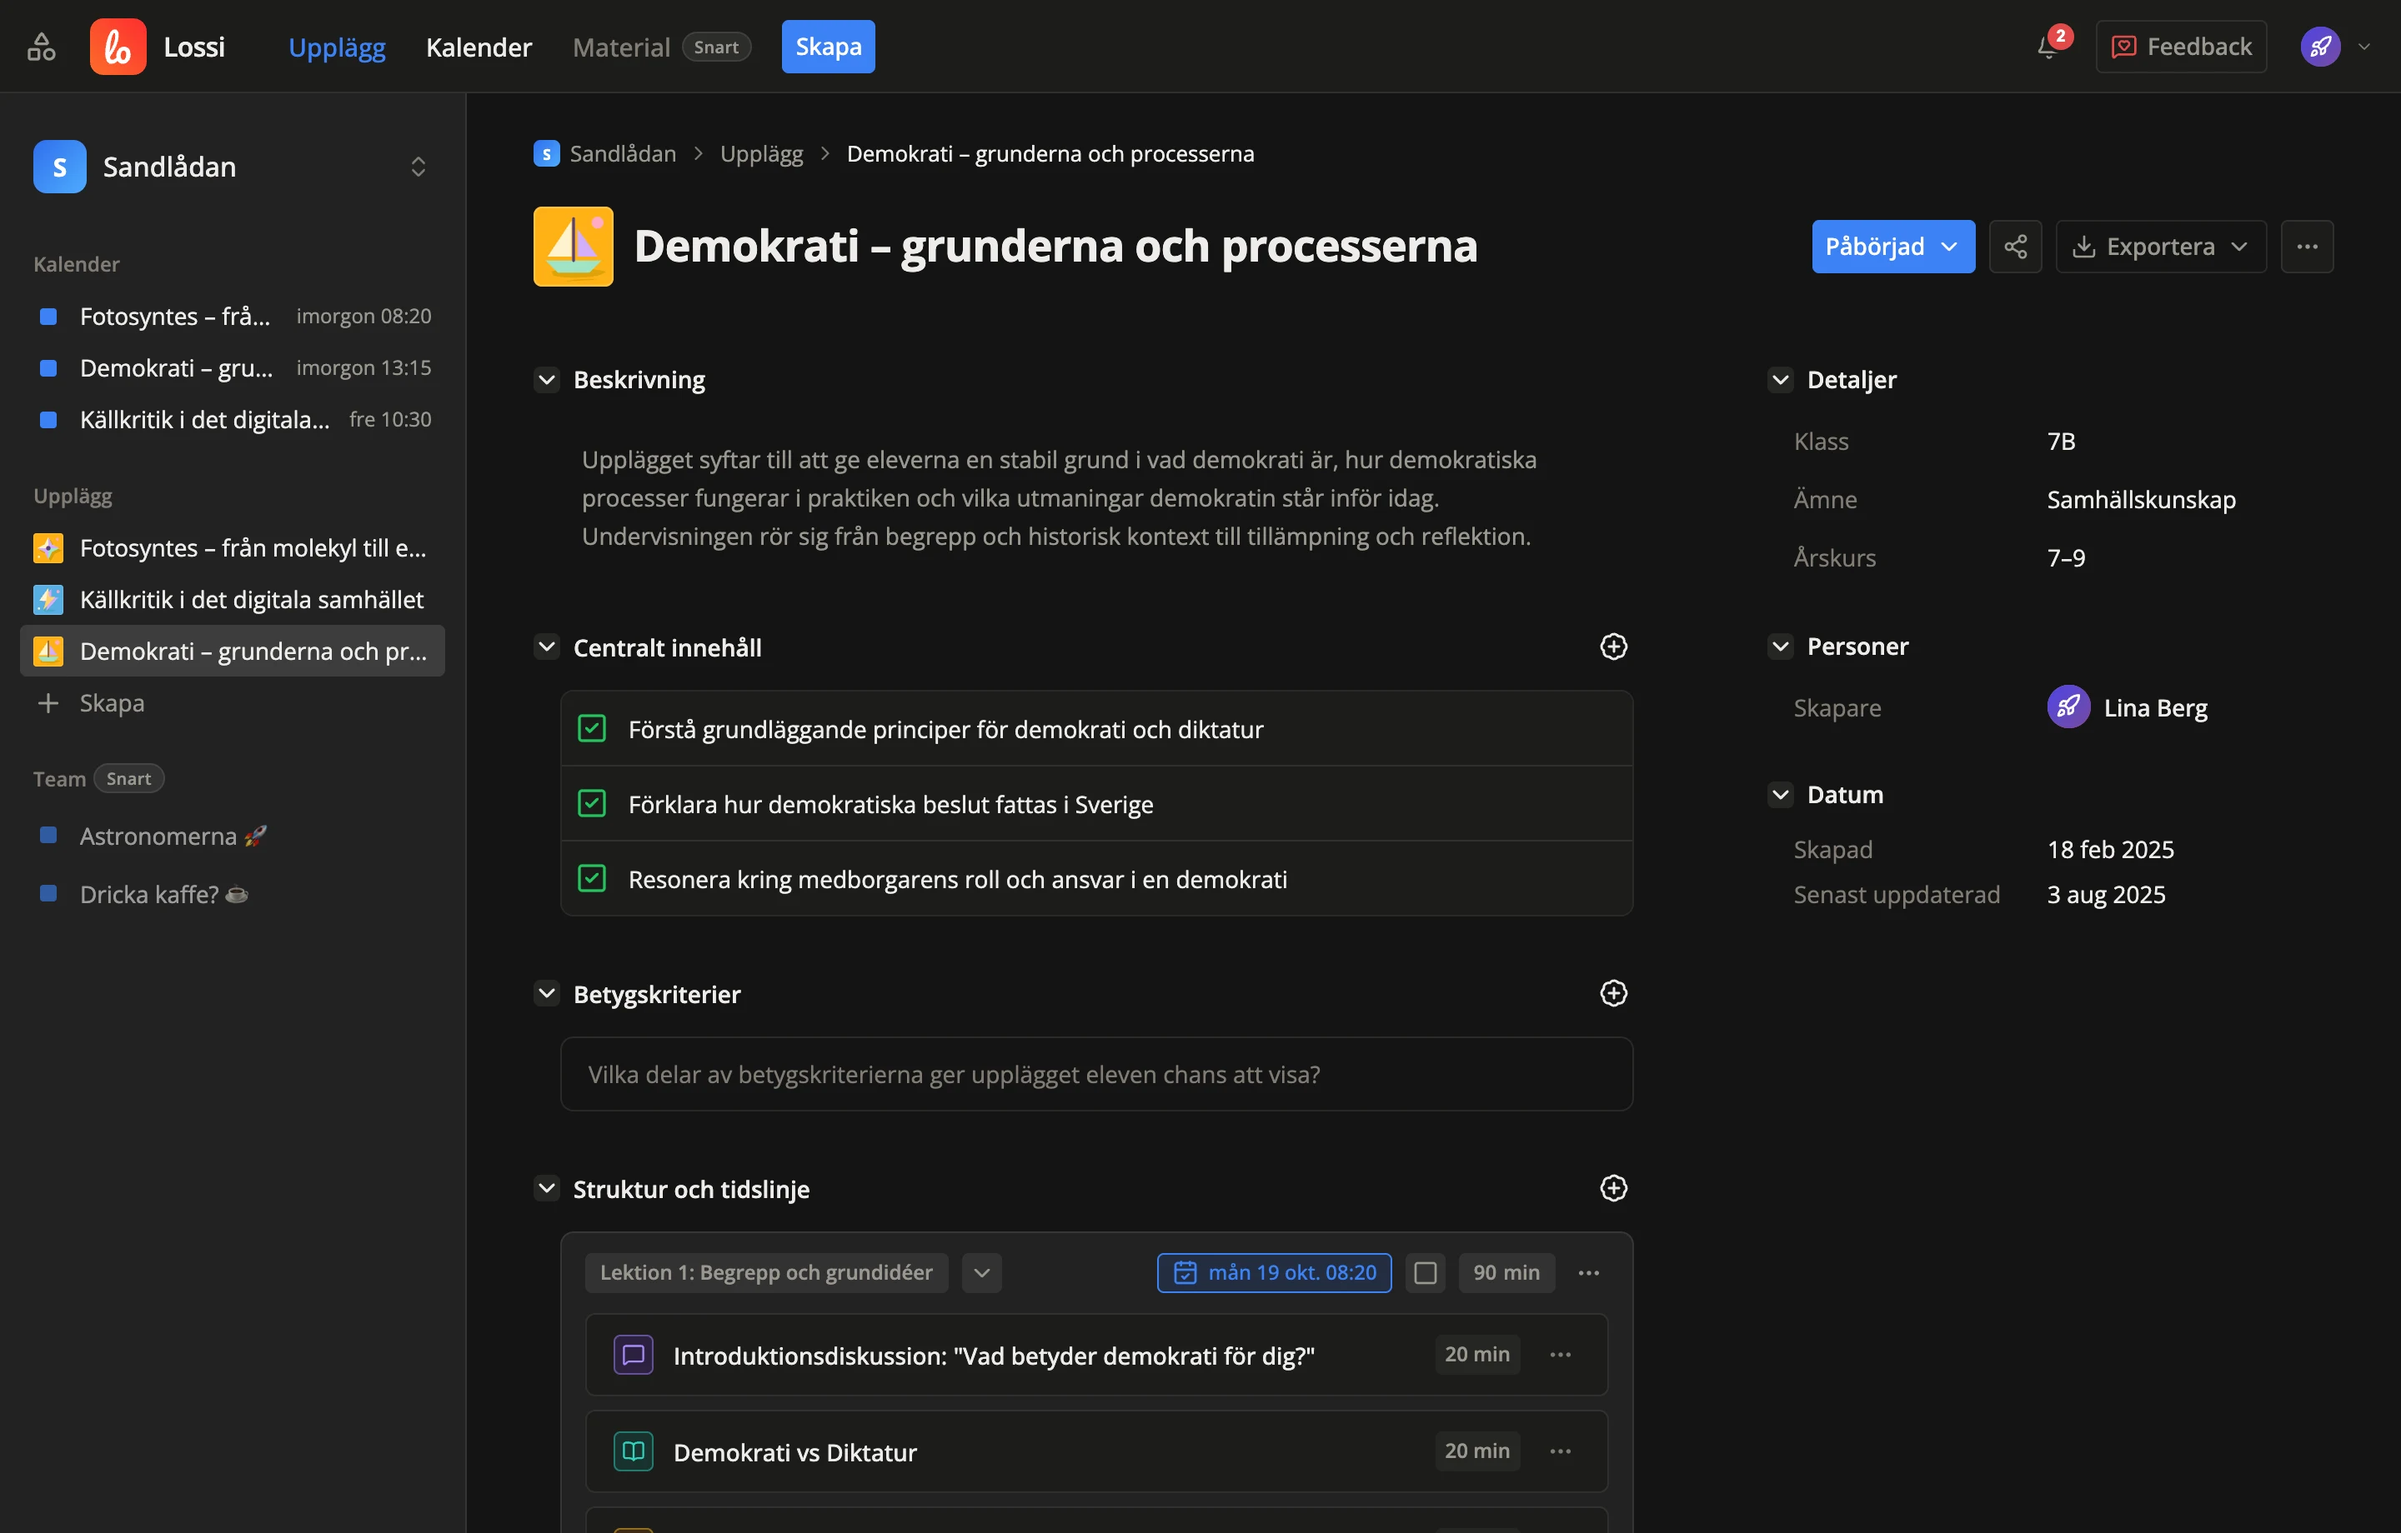
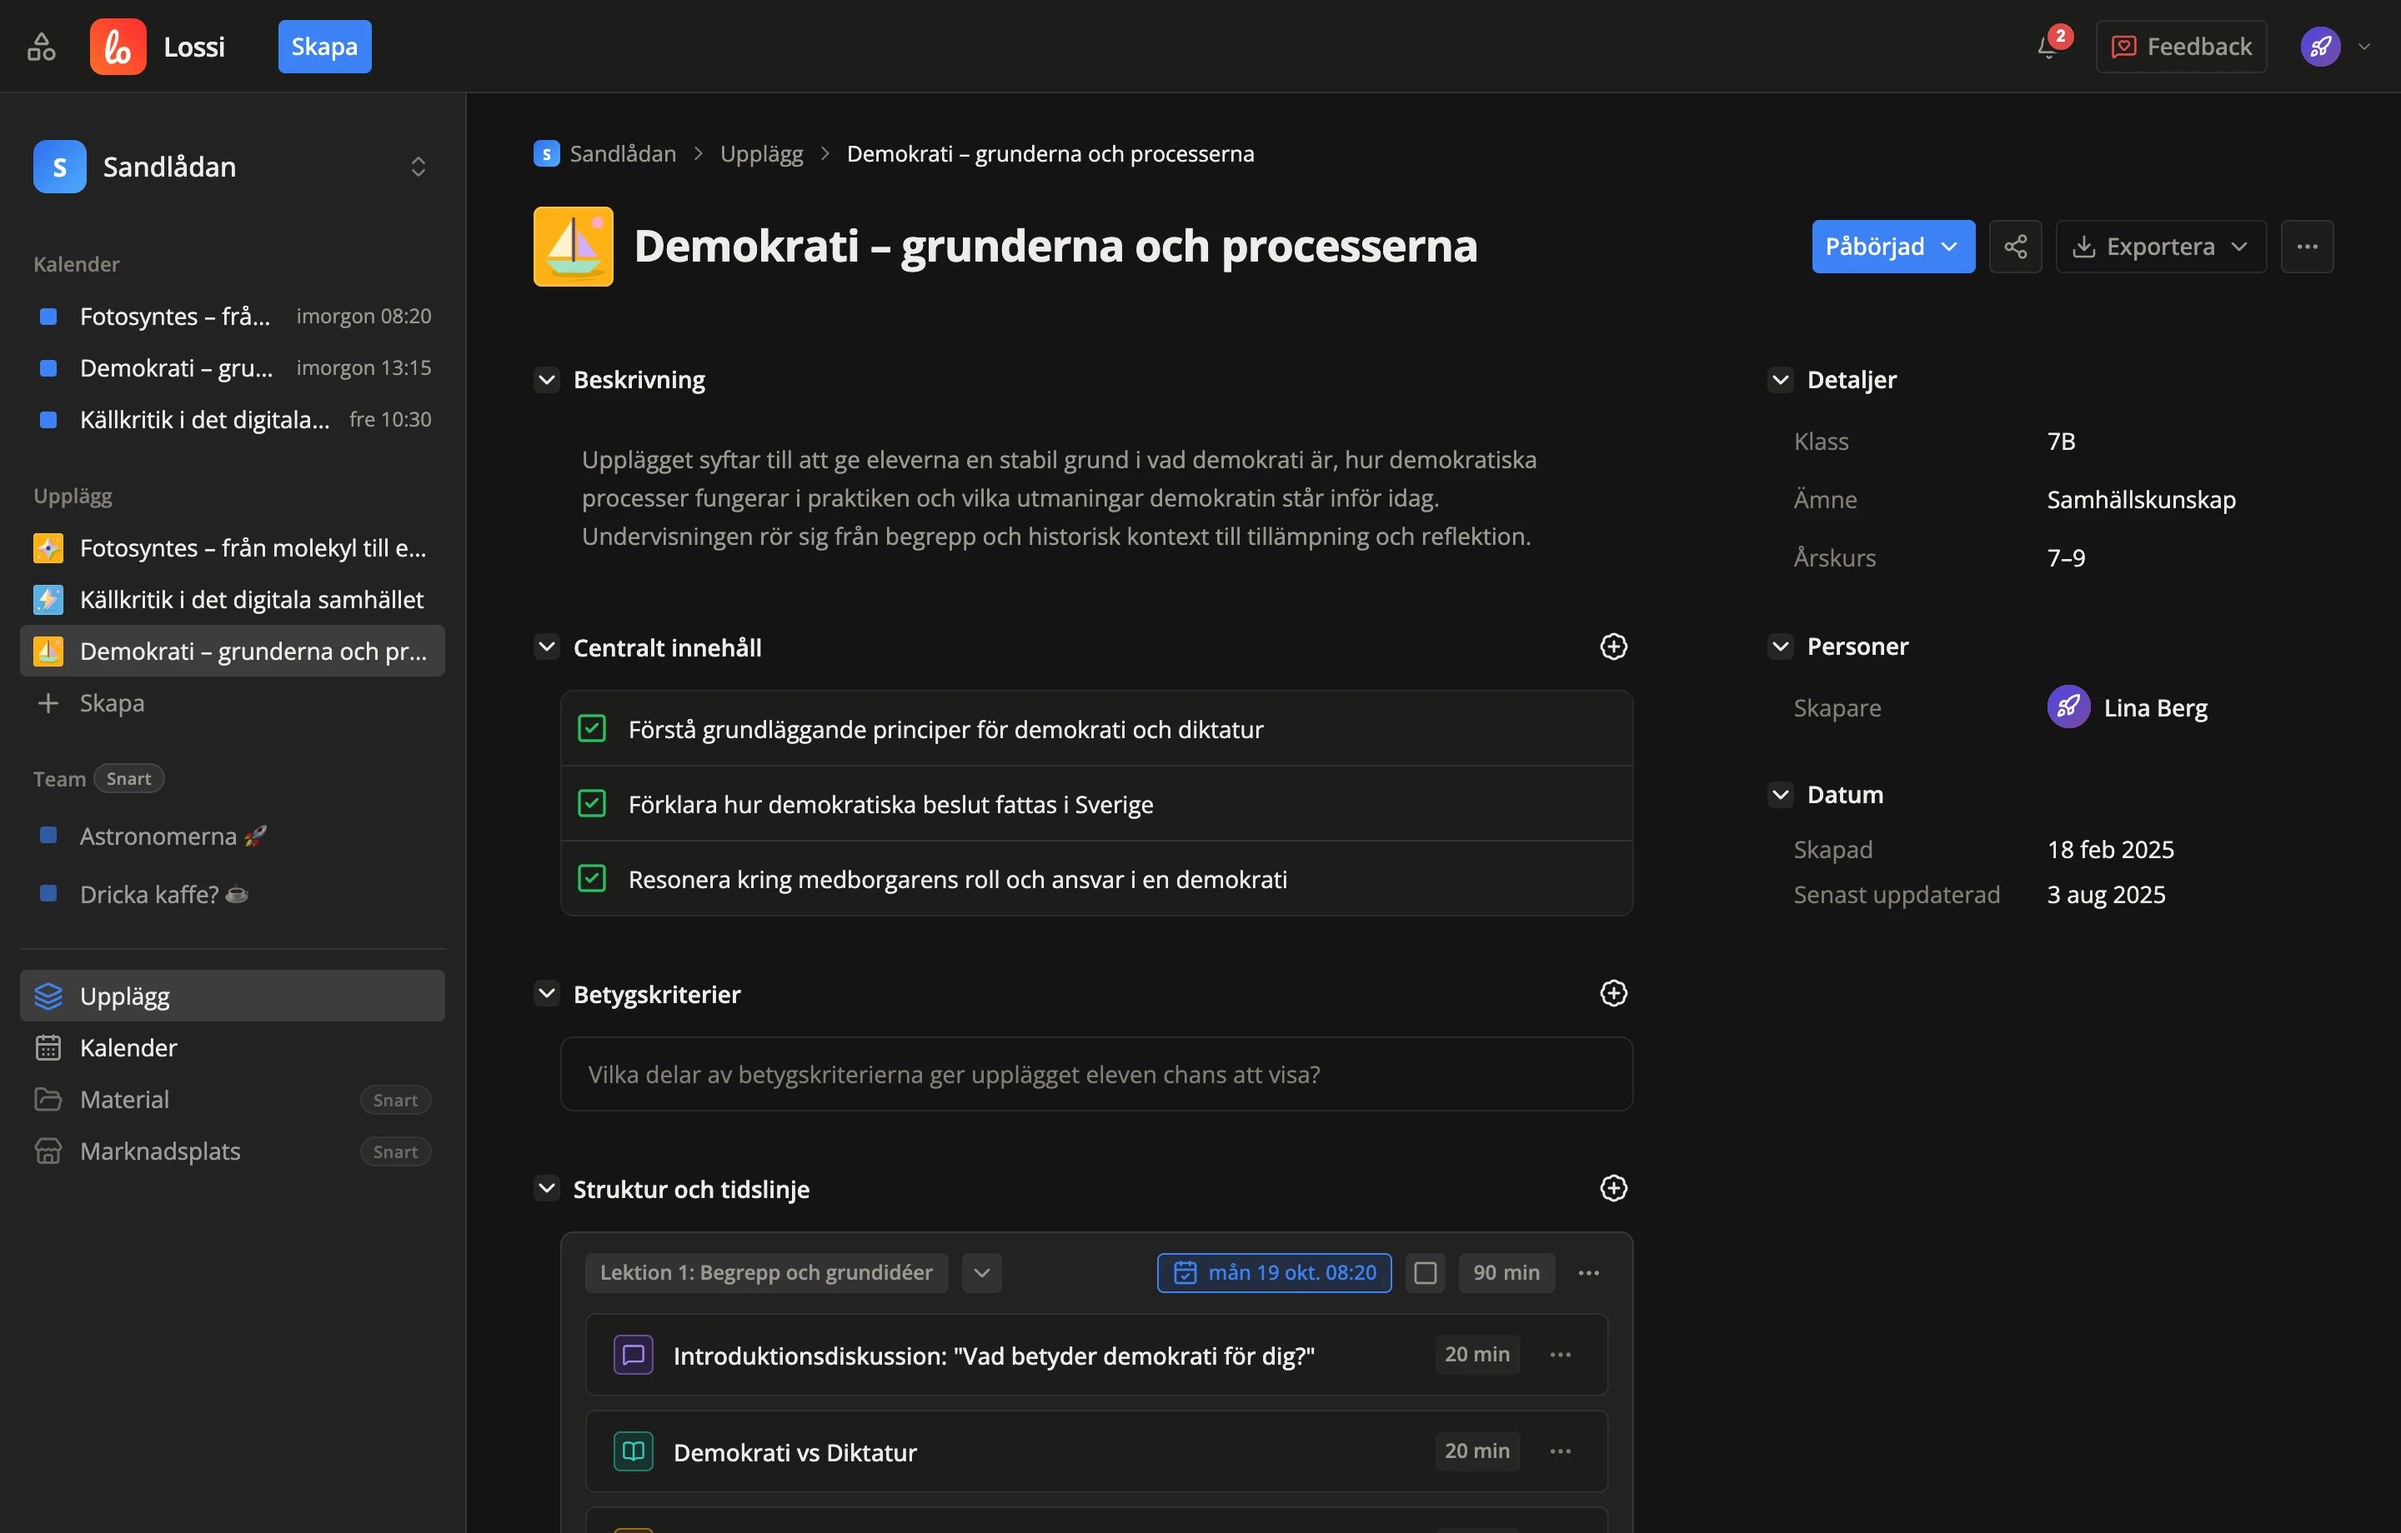
Move page links from the topbar to the sidebar
Upplägg, Kalender and Material (Snart) now sit in their own section at
the bottom of the sidebar, below Team, together with Marknadsplats
(Snart); the current page is highlighted. The topbar keeps Skapa.

diff --git a/theme.js b/theme.js
@@ -385,7 +385,7 @@ function renderAppShell(options = {}) {
     aside.addEventListener('click', e => { if (e.target.closest('a[href]')) closeAside(); });
   }
   if (aside) {
-    aside.innerHTML = buildAsideHTML();
+    aside.innerHTML = buildAsideHTML(options.active);
     renderProjectSwitcher(options.onProjectChange);
     renderAsidePlans(options.currentPlanId).catch(e => console.warn('Kunde inte hämta upplägg till sidopanelen:', e));
     if (typeof renderAsideEvents === 'function') renderAsideEvents();
@@ -466,12 +466,10 @@ function buildTopbarHTML(active) {
       </div>
       <span class="logo-text">Lossi</span>
     </a>
-    <nav class="topnav">
-      <a href="index.html" class="topnav-link${active === 'plans' ? ' active' : ''}">Upplägg</a>
-      <a href="calendar.html" class="topnav-link topnav-calendar${active === 'calendar' ? ' active' : ''}">Kalender</a>
-      <span class="topnav-link is-soon" title="Material kommer snart" aria-disabled="true">Material <span class="soon-badge">Snart</span></span>
+    <!-- Sidorna (Upplägg, Kalender …) ligger i sidopanelen, se buildAsideHTML -->
+    <div class="topnav">
       <button class="topnav-create" onclick="openCreatePlanModal()">Skapa</button>
-    </nav>
+    </div>
   </div>
 
   <div class="app-topbar-end">
@@ -566,7 +564,22 @@ function toggleAsideGroup(id) {
   try { localStorage.setItem(ASIDE_COLLAPSED_KEY, JSON.stringify(saved)); } catch (e) {}
 }
 
-function buildAsideHTML() {
+// Lossis sidor, längst ner i sidopanelen (flyttade från topbaren)
+function asideNavHTML(active) {
+  const link = (id, href, icon, label) =>
+    `<a href="${href}" class="aside-item${active === id ? ' active' : ''}"${active === id ? ' aria-current="page"' : ''}><i data-lucide="${icon}"></i><span class="aside-item-text">${label}</span></a>`;
+  const soon = (icon, label, what) =>
+    `<div class="aside-item is-placeholder is-soon" title="${what} kommer snart" aria-disabled="true"><i data-lucide="${icon}"></i><span class="aside-item-text">${label}</span><span class="soon-badge">Snart</span></div>`;
+  return `
+    <nav class="aside-group aside-nav" aria-label="Sidor i Lossi">
+      ${link('plans', 'index.html', 'layers', 'Upplägg')}
+      ${link('calendar', 'calendar.html', 'calendar-days', 'Kalender')}
+      ${soon('folder-open', 'Material', 'Material')}
+      ${soon('store', 'Marknadsplats', 'Marknadsplatsen')}
+    </nav>`;
+}
+
+function buildAsideHTML(active) {
   let inviteDismissed = false;
   try { inviteDismissed = localStorage.getItem('lossi-invite-dismissed') === 'true'; } catch (e) {}
 
@@ -596,6 +609,8 @@ function buildAsideHTML() {
           <span class="aside-dot"></span>
           <span class="aside-item-text">${escapeHTML(t.name)} ${t.emoji}</span>
         </div>`).join('') })}
+
+    ${asideNavHTML(active)}
   </div>
 
   ${inviteDismissed ? '' : `

diff --git a/styles.css b/styles.css
@@ -530,6 +530,12 @@ body.activity-panel-resizing .page-frame {
 .aside-plan-icon img { width: 100%; height: 100%; display: block; }
 
 .aside-more { color: var(--color-text-secondary); }
+
+/* Lossis sidor längst ner i sidopanelen (asideNavHTML i theme.js) */
+.aside-nav { padding-top: 12px; border-top: 1px solid var(--color-border); }
+.aside-nav .aside-item svg { width: 18px; height: 18px; flex-shrink: 0; color: var(--color-text-secondary); }
+.aside-nav .aside-item.active svg { color: var(--color-primary); }
+.aside-nav .aside-item .soon-badge { margin-left: auto; }
 button.aside-item { width: 100%; border: none; background: none; font-family: inherit; text-align: left; cursor: pointer; }
 .aside-more svg { width: 18px; height: 18px; flex-shrink: 0; }
 
@@ -653,7 +659,7 @@ button.aside-item { width: 100%; border: none; background: none; font-family: in
 
 
 /* ============================================================
-   TOPNAV  (Upplägg, Material, Skapa i app-topbaren)
+   TOPNAV  (Skapa i app-topbaren; sidorna ligger i sidopanelen, .aside-nav)
    ============================================================ */
 
 .topnav {
@@ -3815,8 +3821,7 @@ body.is-coeditor .lesson-schedule-btn { display: none !important; }
   .app-topbar-start { gap: var(--space-2); min-width: 0; }
   .app-switcher,
   .logo-text,
-  .topnav-link.is-soon,
-  .topnav-calendar { display: none; }
+  .topnav-link.is-soon { display: none; }
   .topnav { margin-left: 0; }
   .feedback-btn { width: var(--btn-height); padding: 0; margin-right: 0; }
   .feedback-btn-label { display: none; }
